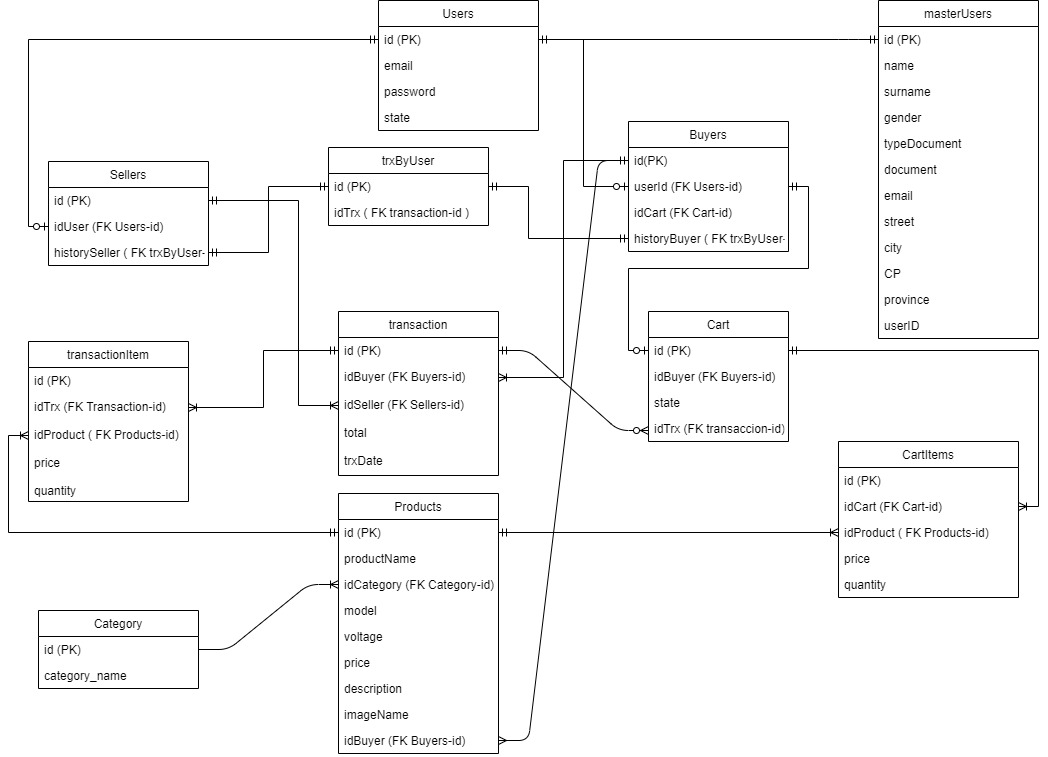
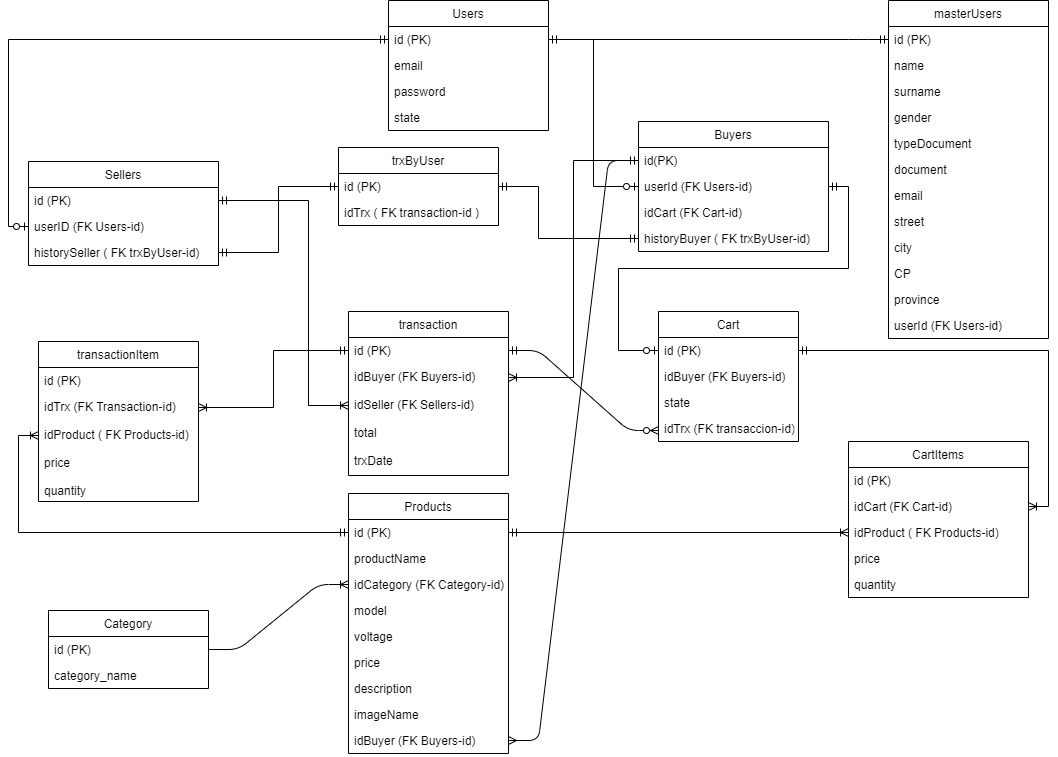
actualizo DER + Scripts Estructura y Población de Datos + modelo y vista index products

diff --git a/app/controllers/productsController.js b/app/controllers/productsController.js
@@ -1,6 +1,9 @@
 const fs = require('fs');
 const path = require('path');
 const m = require("../model/model");
+const db = require ("../database/models/");
+const Products = db.products;
+
 
 const fpath = path.join(__dirname, '../data/products.json');
 //const productsFilePath = path.join(__dirname, '../data/products.json');
@@ -8,8 +11,18 @@ const idx = 'id';
 
 const controller = {
 	root: (req, res) => {
-		let allProducts = m.loadFile(fpath); 
-		res.render('products', {title2: 'Todos los Productos', prods: allProducts } );
+		Products
+			.findAll()
+			.then(products => {
+				return res.render('products', { 
+					title2: 'Todos los Productos',
+					products
+				});
+			})
+			.catch(error => res.send(error));
+	
+		//let allProducts = m.loadFile(fpath); 
+		//res.render('products', {title2: 'Todos los Productos', prods: allProducts } );
 	},
 	getProdsByCat: (req, res) =>{
 		let allProducts = m.loadFile(fpath);

diff --git a/app/database/models/product.js b/app/database/models/product.js
@@ -1,0 +1,32 @@
+
+module.exports = (sequelize, DataTypes) => {
+    let alias = 'products';
+    let columns = {
+		id: {
+			type: DataTypes.INTEGER,
+			primaryKey: true,
+			allowNull: false,
+			autoIncrement: true,
+		},
+        prodName: DataTypes.STRING,
+        model: DataTypes.STRING,
+        voltage: DataTypes.STRING,
+        price: DataTypes.INTEGER,
+        description: DataTypes.STRING,
+		imageName: DataTypes.STRING,
+		idCategory: DataTypes.INTEGER
+    };
+    /*let config = {
+		tableName: 'products',
+		timestamps: false, // createdAt - updatedAt
+	};*/
+    
+    const product = sequelize.define(alias, columns);
+
+  
+
+  product.associate = function(models) {
+    // associations can be defined here
+  };
+  return product;
+};

diff --git a/Scripts/ScriptPoblaciónDatos.md b/Scripts/ScriptPoblaciónDatos.md
@@ -1,0 +1,56 @@
+# Proyecto Integrador de Digital House
+
+Grupo 02 | Santiago Balbiani - Luciano Schiavone - Clara Salvadores
+
+
+
+
+## Script de población de datos
+
+Categorias
+insert into categories (categoryName)
+values 
+("Arduino"),
+("Raspberry"),
+("PLC"),
+("Combos y Ofertas");
+
+Productos
+insert into products (prodName, idCategory, model, voltage, price, description, imageName)
+values 
+("Raspberry Pi4",2,"Pi4","12V",3000,"Broadcom BCM2711, 2. 4 GHz and 5. 0 GHz IEEE 802. 11b/g/n/ac wireless LAN, Bluetooth 5. 0, BLE 2 × USB 3. 0 ports, 2 x USB 2. 0 Ports n2 × micro HDMI ports supproting up to 4Kp60 video resolution Micro SD card slot for loading operating system and data storage","RaspberryPi4.jpg"),
+("Arduino UNO",1,"UNO","5V",1400,"Pines de Entradas/Salidas Digital: 14 (De las cuales 6 son salidas PWM)nPines de Entradas Análogas: 6 Memoria Flash: 32 KB (ATmega328) de los cuales 0,5 KB es usado por Bootloader. SRAM: 2 KB (ATmega328) EEPROM: 1 KB (ATmega328) Velocidad del Reloj: 16 MHZ.","descarga.jpg"),
+("Combo Soldador De 40w + Estaño + Desoldador+kit 31 En 1+test  ",4," DSF-1482 "," 40 W ",810,"Soldador Lapicero De Punta -Rápido, Cómodo y Seguro -Ideal Para Soldaduras Con Estaño En Artículos Electrónicos -Potencia: 40w -Largo: 20 Cm -Alimentación 220v   -Estaño Alambrico Para Electrónica Con Resina -Bobina x 100Grs -Diámetro 0,8mm -Flux Code Cf20   -Desoldador a Pistón -Extractor De Estaño a Succión, Desoldador. -Practica y Económica Herramienta Para Retirar Particulas De Estaño En Tareas De Electrónica, Microsoldadura, Etc.   -Set 31 Destornilladores -31 piezas. -Pala: 1.0, 1.3, 1.5, 2.0, 2.5, 3.0, 4.0 -Cruz: PH00, PH0, PH1, Ph2. -Estrella: T4, T5, T6, T7, T8, T10, T15, T20 -Hexágono: H1.5, H2.0, H2.5, H3, H3.5, H4 -Triangulo: 3.0 -Y: 3.0 -H: 2.6 -O: 1.0 -Estrella: 2.0 -Destornillador. -Mango ergonómico antideslizante. -Estuche en plástico con tapa transparente. -Práctico empaque compacto y liviano.   -Tester Digital Mod. Dt-830b Profesional -Mide Voltage En Ac - Dc, Resistencia, Amperes Dca, Hfe, Diosos, Continuidad. -Funciona Con Bateria 9v (No Viene Incluida)","combo.PNG"),
+("Estacion De Soldado 908 Hony Combo Limpieza Soldadura",4,"HY-908","50 W",9550,"EESTACION DE SOLDADO HONY ORIGINAL 908 KIT ELECTRONICA LIMPIEZA Y DESOLDADO. IMPORTANTE!  ANTES DE USAR ESTE PRODUCTO RETIRE LOS TORNILLOS PLATEADOS QUE SE ENCUENTRAN EN LA BASE. NO QUITARLOS PUEDE PROVOCAR QUE LA ESTACIÓN SE ROMPA, ANULANDO LA GARANTÍA Y TODA POSIBILIDAD DE CAMBIO.","combo estacion soldado.PNG"),
+("Modulo Transceptor Rf Hc-11 433mhz Cc1101 Uart Arduino Plc",3,"9600","5V",550,"Caracteristicas del modulo:Alimentacion: 3.6 a 5VDimensiones: 13.5 x 28.2mmDistancia de transmicion: Hasta 200m. (con linea de vision)Conector para antena externa: U.FL o Antena soldadaComunicacion: UARTVelocidad: Configurable mediante comandos AT por defecto: 9600 (2400, 4800, 9600, 19200, 38400, 57600, 115200)Direccion del dispositivo: Configurable mediante comandos AT por defecto: 000 (000 - 255)Canal de frecuencia: Configurable mediante comandos AT por defecto: 001 (001 - 127)Pin-OutSET: Pin de configuracionTX: Pin de Salida de datos TTLRX: Pin de Entrada de datos TTLGND: Pin de MasaVCC: Pin de Alimentación","plc.PNG"),
+("Plc Siemens Logo8 Di8/do4 24v Transistor 6ed1052-1cc08-0ba0",3,"6ED1052-1CC01-0BA8","24V DC",12915,"Display: SI Instalacion Montaje: Riel DIN 35mm (4 modulos) Voltaje Entrada: 24V DC Rango Minimo 20.4V DC Rango Maximo 28.8V DC  Time switching clocks Number 190 Power reserve 480 h  Digital inputs Number of digital inputs 8; Of which 4 can be used in analog mode (0 to 10 V)  Digital outputs Number of digital outputs 4; Transistor  Output current for signal 1 permissible range for 0 to 55 °C, max. 0.3 A  Ambient temperature during operation min. 0 °C; LOGO! 8 FS04 and higher: -20 °C max. 55 °C  Dimensions Width 71.5 mm Height 90 mm Depth 60 mm","plc 2.PNG"),
+("Raspberry Pi 3 Camara V2 8mpix 1080 Emakers",2,"CAMERA V2","5 V",3376,"Raspberry Pi 3 Pi 4 Camara V2 Emakers  La Raspberry Pi Camera v2 es una Cámara de alta calidad de 8 megapíxeles, incluye el sensor de imagen IMX219 de Sony diseñado para Raspberry Pi, con lente de enfoque fijo. Es capaz de tomar imágenes estáticas de 3280 x 2464 píxeles, y también es compatible con resoluciones de video 1080p30, 720p60 y 640x480p60 / 90. Se conecta a Pi a través de uno de los pequeños enchufes en la superficie superior de la placa y utiliza la interfaz CSi dedicada, diseñada especialmente para la interfaz con cámaras. Es pequeña, mide 25 mm x 23 mm x 9 mm aprox. También pesa solo 3 g, lo que lo hace perfecto para aplicaciones móviles o de otro tipo en las que el tamaño y el peso son importantes. Se conecta a Raspberry Pi por medio de un cable plano corto. El sensor de imagen Sony IMX219 de alta calidad tiene una resolución nativa de 8 megapíxeles y tiene una lente de enfoque fijo. Todo el software es compatible con la última versión del sistema operativo Raspbian  Aplicaciones: cámara de seguridad CCTV, detección de movimiento, fotografía de lapso de tiempo Compatible con todos los modelos de Raspberry Pi 1, 2 ,3 y 4.","raspberry2.PNG"),
+("Driver Motor Arduino Drv8825 Pololu Stepstick",1,"DSF-1482","3.3V - 5V",139,"DRIVER MOTOR ARDUINO DRV8825 POLOLU STEPSTICK-[ Código Tienda.Starware 1676 ]-** ¡ HAY STOCK ! + Envíos en el DÍA + Factura A o B **** ESTA OFERTA INCLUYE **1X DRIVERControlador de motores paso a pasoPara más información y especificaciones técnicas por favor visita el sitio web del fabricante.Las imagenes de la publicación son de carácter ilustrativo.","arduino2.PNG");
+
+Usuarios
+insert into users (email, password)
+values 
+("lady@mormont.com", "$2a$11$rg7/P2Sm7UVa/.5peW1q3OzNCckd/CiIwnSqPm2q44O0DgpiVQHei"),
+("tyron@lannister.com", "$2a$11$CG09j5QRUvC1mGW5GJCFTeBrx.v9bFmRGa2k71ScC6tMhv3NIQX9q"),
+("juan@gmail.com", "$2a$11$uaXFiqKrkjwaueRGixWfxeR6S3qfbJCNwZFqhCgGsgGiNaeJyK3Pa"),
+("jaime@casalannister.com", "$2a$11$Ei70JAXasmK1mquwVzpTBeLykoDyk9hS7daLhIUhtyodgQMmpKt26"),
+("emilia@live.com.ar", "$2a$11$58da8GJ38ektTEv3BJRyruCkOXRcvqHIzonvWZzcCn.vFjZOgR3Ii"),
+("cecilia@gmail.com", "$2a$11$NkoP45mkMHvSmwo6K/uOlOj6WY5zRQwUHbyURt4robN/M50wjvVzO"),
+("eduardo@stark.com.ar", "$2a$11$Lp6VKx/JWGq6rPcJOkGvh.X/j2lpVhyZMnQb7cw/N99HHuNB/GAu2"),
+("sofia@live.com", "$2a$11$yP1RgX//HCOrJ3Tf6k7HV.zd8qAM1yUezkh4cUXJ0b0hicIYhVXkq"),
+("pedro@casamartell.com", "$2a$11$TQOtmzzD219KrqFXFL2u5e0jQcKggc2Ip/tm7vpmgNyImWcSvRER."),
+("arya@stark.com", "$2a$11$M8H4DUE5FHmM164gvTRSEO6bRSsGXmVDFCV1Yoocjc2vHS7TtGt.6");
+
+Maestro deUsuarios
+insert into masterUsers (name,surname,gender,typeDocument,document,email,telephone,street,city,CP,province,avatarName,userID)
+values 
+("Juana","Mormont","Mujer","DNI",34123456,"lady@mormont.com",99999999,"Lima 111","Capital Federal","1107","Capital Federal","ladymormont.jpg", 1),
+("Juan Manuel","Lannister","Hombre","Pasaporte",1234567,"tyron@lannister.com",99999999,"Lima 111","Capital Federal","1107","Capital Federal","tyron.jpg", 2),
+("Juan","Snow","Hombre","DNI",45890765,"juan@gmail.com",88888888,"Lima 111","Capital Federal","1107","Capital Federal","JuanSnow.jpg", 3),
+("Jaime","Lannister","Hombre","DNI",22227890,"jaime@casalannister.com",88888888,"Lima 111","Capital Federal","1107","Capital Federal","jaime lannister.jpg",4),
+("Emilia","Clarke","Mujer","DNI",34567876,"emilia@live.com.ar",99999999,"Lima 111","Capital Federal","1107","Capital Federal","EmiliaClarke.jpg", 5),
+("Cecilia","Lannister","Mujer","DNI",44556677,"cecilia@gmail.com",99999999,"Lima 111","Capital Federal","1107","Capital Federal","CeciliaLannister.jpg", 6),
+("Eduardo","Stark","Hombre","DNI",4546734,"eduardo@stark.com.ar",88888888,"Lima 111","Capital Federal","1107","Capital Federal","EduardoStark.jpg", 7),
+("Sofia","Stark","Mujer","DNI",28285411,"sofia@live.com",88888888,"Lima 111","Capital Federal","1107","Capital Federal","SofiaStark.jpg", 8),
+("Pedro","Pascal","Hombre","DNI",34567890,"pedro@casamartell.com",88888888,"Lima 111","Capital Federal","1107","Capital Federal","PedroPascal.jpg",9),
+("Arya","Stark","Mujer","DNI",24563891,"arya@stark.com",99999999,"Lima 111","Capital Federal","1107","Capital Federal","AryaStark.jpg", 10);

diff --git a/Scripts/ScriptCreaciónEstructuraBD.md b/Scripts/ScriptCreaciónEstructuraBD.md
@@ -38,7 +38,7 @@ Usuarios:
 create table Users (
 id INT NOT NULL AUTO_INCREMENT PRIMARY KEY,
 email VARCHAR(50) NOT NULL, 
-password VARBINARY(50) NOT NULL,
+password VARBINARY(500) NOT NULL,
 state VARCHAR (25),
 createdAt timestamp NULL DEFAULT NULL,
 updatedAt timestamp NULL DEFAULT NULL);
@@ -46,46 +46,57 @@ updatedAt timestamp NULL DEFAULT NULL);
 Maestro de Usuarios:
 create table masterUsers (
 id INT NOT NULL AUTO_INCREMENT PRIMARY KEY,
-name VARCHAR(30) NOT NULL, 
-surname VARCHAR(30) NOT NULL, 
+name VARCHAR(50) NOT NULL, 
+surname VARCHAR(50) NOT NULL, 
 gender VARCHAR(30) NOT NULL,
 typeDocument VARCHAR(30) NOT NULL,
-document INT(10) NOT NULL, 
-telephone INT,
+document VARCHAR(30), NOT NULL, 
+telephone INT(50),
 email VARCHAR(50) NOT NULL, 
 street VARCHAR(100) NOT NULL,
 city VARCHAR(50) NOT NULL,
 CP varchar(10) NOT NULL,
 province VARCHAR(50) NOT NULL,
 userID INT NOT NULL,
+avatarName VARCHAR(50),
 FOREIGN KEY (UserID) REFERENCES Users(ID));
+
+Categorías:
+create table  categories (
+id INT NOT NULL AUTO_INCREMENT PRIMARY KEY,
+categoryName VARCHAR(30) NOT NULL);
+
 
 Compradores:
 create table buyers (
 id INT NOT NULL AUTO_INCREMENT PRIMARY KEY,
 userID INT NOT NULL,
+idCart INT DEFAULT NULL,
+historyBuyer INT DEFAULT NULL,
 FOREIGN KEY (UserID) REFERENCES Users(ID));
-
-Carrito:
-create table cart (
-id INT NOT NULL AUTO_INCREMENT PRIMARY KEY,
-state INT,
-idBuyer INT,
-idTrx INT,
-FOREIGN KEY (idBuyer) REFERENCES buyers(ID),
-FOREIGN KEY (idTrx) REFERENCES transaction(ID),
-createdAt timestamp NULL DEFAULT NULL,
-updatedAt timestamp NULL DEFAULT NULL);
-
-ALTER TABLE buyers
-ADD FOREIGN KEY (idCart) REFERENCES cart(ID);
 
 Vendedores:
 create table sellers (
 id INT NOT NULL AUTO_INCREMENT PRIMARY KEY,
 userID INT NOT NULL,
-historySeller INT,
+historySeller INT DEFAULT NULL,
 FOREIGN KEY (UserID) REFERENCES Users(ID));
+
+Productos:
+create table  Products (
+id INT NOT NULL AUTO_INCREMENT PRIMARY KEY,
+prodName VARCHAR(500) NOT NULL,
+idCategory INT,
+idBuyer INT,
+model VARCHAR(30),
+voltage VARCHAR(30),
+price decimal (6,2) NOT NULL,
+description VARCHAR(5000) DEFAULT NULL,
+imageName VARCHAR(256) NULL DEFAULT NULL ,
+FOREIGN KEY (idBuyer) REFERENCES buyers(ID),
+FOREIGN KEY (idCategory) REFERENCES categories(ID),
+createdAt timestamp NULL DEFAULT NULL,
+updatedAt timestamp NULL DEFAULT NULL);
 
 Transacciones:
 create table transaction (
@@ -99,15 +110,33 @@ FOREIGN KEY (idSeller) REFERENCES sellers(ID),
 createdAt timestamp NULL DEFAULT NULL,
 updatedAt timestamp NULL DEFAULT NULL);
 
+
 Transacciones por usuario:
 CREATE TABLE trxByUser (
 id INT NOT NULL AUTO_INCREMENT PRIMARY KEY,
 idTrx INT NOT NULL,
 FOREIGN KEY (idTrx) REFERENCES transaction(ID));
 
+Carrito:
+create table cart (
+id INT NOT NULL AUTO_INCREMENT PRIMARY KEY,
+state INT,
+idBuyer INT,
+idTrx INT,
+FOREIGN KEY (idBuyer) REFERENCES buyers(ID),
+FOREIGN KEY (idTrx) REFERENCES transaction(ID),
+createdAt timestamp NULL DEFAULT NULL,
+updatedAt timestamp NULL DEFAULT NULL);
+
+Agregar FK idCart a tabla Vendedores
 ALTER TABLE buyers
 ADD FOREIGN KEY (idCart) REFERENCES cart(ID);
 
+Agregar FK historia de trx a tabla Vendedores
+ALTER TABLE buyers
+ADD FOREIGN KEY (historyBuyer) REFERENCES trxbyuser(ID);
+
+Agregar FK historia de trx a tabla Compradores
 ALTER TABLE sellers
 ADD FOREIGN KEY (historySeller) REFERENCES trxbyuser(ID);
 
@@ -132,24 +161,9 @@ FOREIGN KEY (idProduct) REFERENCES products(ID),
 FOREIGN KEY (idCart) REFERENCES cart(ID));
 
 
-Categorías:
-create table  category (
-id INT NOT NULL AUTO_INCREMENT PRIMARY KEY,
-categoryName VARCHAR(30) NOT NULL);
 
-Productos:
-create table  Products (
-id INT NOT NULL AUTO_INCREMENT PRIMARY KEY,
-prodName VARCHAR(30) NOT NULL,
-FOREIGN KEY (idCategory) REFERENCES category(ID)
-model VARCHAR(30),
-voltage VARCHAR(30),
-price decimal (6,2) NOT NULL,
-description VARCHAR(500) NOT NULL,
-image varbinary(8000) NOT NULL,
-FOREIGN KEY (idBuyer) REFERENCES buyers(ID),
-createdAt timestamp NULL DEFAULT NULL,
-updatedAt timestamp NULL DEFAULT NULL,);
+
+
 
 
 
